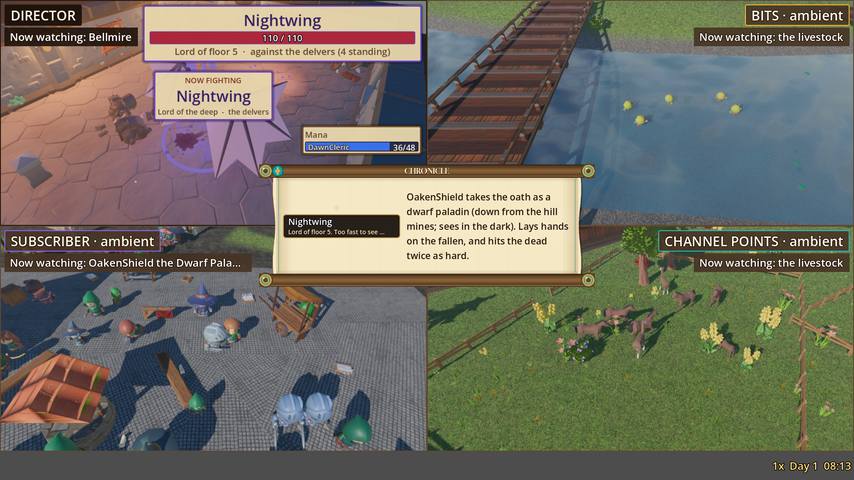
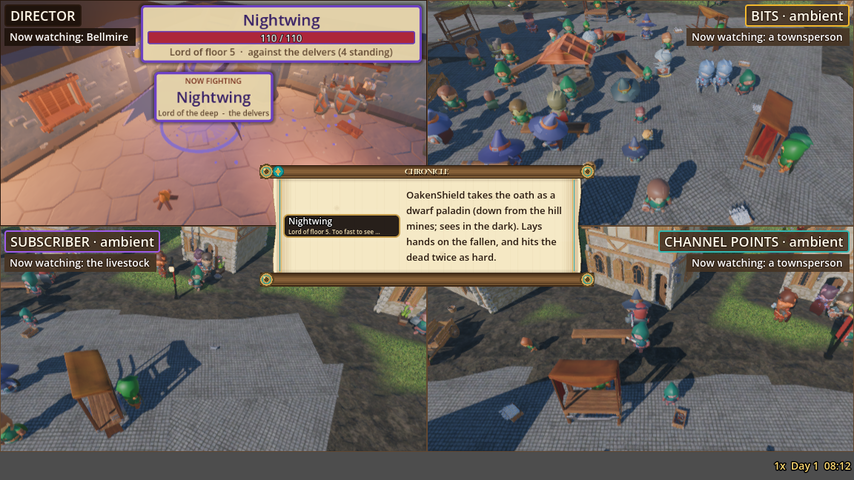
U106: ManaStrip slides clear of the boss card at 150% (hud_dock.gd)

diff --git a/PROGRESS.md b/PROGRESS.md
@@ -13269,3 +13269,11 @@ Measured: scale 1.25 plates=1 offscreen=0 plate (609,232) 336x113 under_chronicl
 LOOKED AT renders/cycles/20261120_u104/mana_125_1080.png and mana_150_1080.png (first run): the grid (2x2) is the layout there. FINDING: at 150% the boss card (boss_bar.gd - NOT mine) grows to 810x200 and sits on the director pane's "Now watching" strip and on the party-frame numbers (54/42 peek out from behind it); the mana plate rect (539..942 x 208..342) lies inside that same region at 150%, so it is likely drawn UNDER the boss card. I have NOT confirmed this by a picture of the second run's plate (rect measured, not seen).
 Owed to boss_bar.gd's owner: the card should cap its width/height by pane size at 150%. My side next firing: look at the second run's 150% frame and, if the plate is hidden, move ManaStrip clear of the boss card in hud_dock.gd.
 Not done: pair pane, L74. Scratch _u105.log left untracked.
+
+U106 - 2026-11-20 14:5x CST - MANA PLATE NO LONGER UNDER THE BOSS CARD (carry from U105). One windowed capture, lock 14:53:53 -> IDLE 14:55:00
+Item: TAKE THIS NEXT 13:58 row 6 (HUD): look at the 150% frame; if hidden behind the boss card, move ManaStrip clear in hud_dock.gd. Pair/grid pass and L74 still NEXT.
+Lock: R working RUN_LOCK last line was chat bot IDLE 14:51:10, no Godot alive. Cap was claim+15 = 15:08; released after ~1 min, no crossing, no :07 contact. (Mount path is now $HOME/mnt/bellmire-hud, the prompt's "hd adventure/" path is stale; R is not mounted for device_bash, read via the Blender bridge.)
+Confirmed first: the U105 second-run 150% frame showed the plate HIDDEN - the boss card (810x200) sat over it; only the party-frame numbers peeked out.
+Changed (hud_dock.gd only): ManaStrip._clear_of_boss() runs after HudDock.put in split mode. If the docked plate intersects the visible BossCard plate (group hud_boss, read-only), it takes the first spot in the pane that touches neither the boss card nor the Chronicle box (below the card right, below left, pane-bottom right, left). boss_bar.gd NOT touched (the width/height cap there is still the card owner's).
+Checks: headless parse of W2 = 0 Parse Error / SCRIPT ERROR. Windowed tools/_u104_shot.gd: `U105_MANA scale=1.5 plates=1 offscreen=0 rects=[(11,216) 241x80] under_chronicle=0`. LOOKED AT renders/cycles/20261120_u104/mana_150_1080.png: "Mana" plate (MossyMage 2/54, DawnCleric 24/36) sits bottom-left of the director pane directly under the Nightwing card, clear of the Chronicle. This run's window was 1152x648, so the 150% frame is a smaller window than U105's 1920x1080; 100%/125% not re-looked at this run. Party-frame overlap with the new spot NOT checked.
+Not done: pair/grid pane pass, L74.
